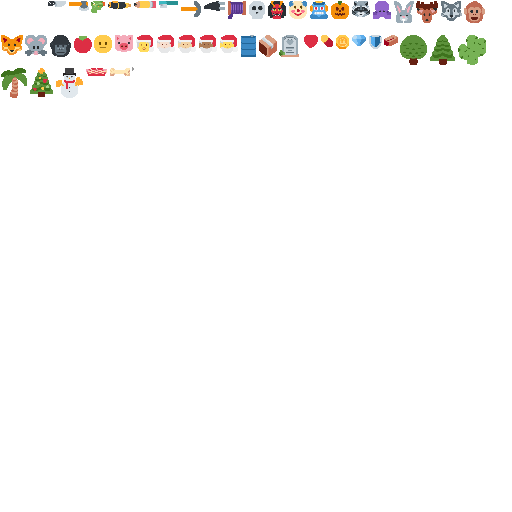
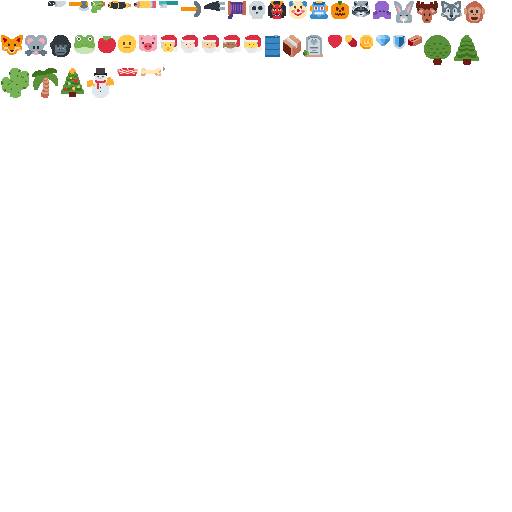
create and join game rooms #38, add FROGMAN head

Changed region(s): [[0.0, 0.0625, 0.9688, 0.1875]]

diff --git a/packages/sprite/public/legacy.html b/packages/sprite/public/legacy.html
@@ -1,0 +1,280 @@
+<!DOCTYPE html>
+<html lang="en">
+<head>
+  <meta charset="UTF-8">
+  <meta name="viewport" content="width=device-width,initial-scale=1.0">
+  <title>pencil</title>
+  <link rel="icon" href="https://fav.farm/💀"/>
+</head>
+<body style="margin:0;height:100vh;overflow:hidden;background:#AAA">
+<script>
+  let output = "";
+
+  function start() {
+    const config = {
+      // WEAPONS
+      "🔪": {size: 12, a: -50, x: 0.3},
+      "🪓": {size: 16, sx: -1, a: 45, x: 0.3},
+      "🔫": {size: 12, sx: -1, x: 0.3},
+      "🖊": {size: 16, sx: -1, a: 45 - 90},
+      "✏": {size: 16, sx: -1, a: 44.5},
+      "🪥": {size: 16, sy: -1, a: 45},
+      "⛏": {size: 16, a: 90 + 45},
+      "🔌": {size: 16, sx: -1, a: 45},
+      "🧵": {size: 16, a: 90, x: 0.3, y: 0.4},
+      // avatars
+      "💀": {},
+      "👹": {},
+      "🤡": {},
+      "🤖": {},
+      "🎃": {},
+      "🦝": {},
+      "🐙": {},
+      "🐰": {size: 20, y: 0.65},
+      "🦌": {size: 20, y: 0.67},
+      "🐺": {size: 20},
+      "🐵": {size: 20},
+      "🦊": {size: 20},
+      "🐭": {size: 20},
+      "🦍": {size: 20},
+      "🐸": {size: 19},
+      // NPC
+      "🍅": {},
+      "😐": {},
+      "🐷": {},
+      "🧑🎄": {},
+      "🎅🏻": {},
+      "🎅🏼": {},
+      "🎅🏾": {},
+      "🎅": {},
+
+      // barrels
+      "🛢":{size: 20, y: 0.95},
+      "📦":{size: 20, y: 0.85},
+      "🪦":{size: 20, y: 0.95},
+      // items
+      "❤":{size: 12},
+      "💊":{size: 10},
+      "🪙":{size: 12},
+      "💎":{size: 12},
+      "🛡":{size: 12},
+      "🧱":{size: 12},
+      // trees
+      "🌳":{size: 28, cut: 0x88, y: 0.95},
+      "🌲":{size: 28, cut: 0x88, y: 0.95},
+      "🌵":{size: 28, cut: 0x88, y: 0.95},
+      "🌴":{size: 28, cut: 0x88, y: 0.95},
+      "🎄":{size: 28, cut: 0x88, y: 0.95},
+      "⛄":{size: 28, cut: 0x88, y: 0.95},
+      // particles
+      "🥓":{size: 16, a: -45},
+      "🦴":{size: 16, a: -45},
+    };
+    for (const img in config) {
+      preview2(img, config[img]);
+    }
+    console.info(output);
+  }
+
+  const font = new FontFace("e", `url(e.ttf)`);
+  font.load().then(() => {
+    document.fonts.add(font);
+    start();
+  });
+
+  function preview(emoji, opts) {
+    let x = 0;
+    let y = 0;
+    const emojiSize = opts.size ?? 16;
+    const w_ = emojiSize + 4; // 14->16
+    const h_ = emojiSize + 6; // 14 -> 20
+    const canvas = document.createElement("canvas");
+    canvas.style.border = "solid 1px blue";
+    canvas.width = w_;
+    canvas.height = h_;
+    const ctx = canvas.getContext("2d");//, {alpha: true});
+    ctx.font = emojiSize + "px e";
+    ctx.textAlign = "center";
+    ctx.textBaseline = "middle";
+    const comp = 1 + (emojiSize / 5);
+    const ty = y + (h_ / 2 + comp) | 0;
+
+    ctx.translate(x + (w_ >>> 1), ty);
+    ctx.rotate((opts.a ?? 0) * Math.PI / 180);
+    ctx.scale(opts.sx ?? 1, opts.sy ?? 1);
+    ctx.fillStyle = "white";
+    ctx.fillText(emoji, 0, 0);
+
+    ctx.resetTransform();
+    ctx.fillStyle = "rgba(255,0,0,0.5)";
+    ctx.fillRect(x + w_ * (opts.x ?? 0.5), y + h_ * (opts.y ?? 0.5), 1, 1);
+
+    const bmp = ctx.getImageData(x, y, w_, h_);
+    for (let i = 0; i < bmp.data.length; i += 4) {
+      let a = bmp.data[i + 3];
+      if (a > 0x7F) {
+        bmp.data[i + 3] = 0xFF;
+      } else {
+        bmp.data[i + 3] = 0;
+      }
+    }
+    ctx.putImageData(bmp, x, y);
+
+    {
+      const lc = document.createElement("canvas");
+      lc.style.border = "solid 1px blue";
+      lc.width = w_ * 4;
+      lc.height = h_ * 4;
+      const ctx2 = lc.getContext("2d");
+      ctx2.imageSmoothingEnabled = false;
+      ctx2.scale(4, 4);
+      ctx2.drawImage(canvas, 0, 0);
+      document.body.appendChild(lc);
+    }
+  }
+
+  // let anchorX = 0.5;
+  // let anchorY = 0.5;
+  function preview2(emoji, opts) {
+    preview(emoji, opts);
+    let x = 0;
+    let y = 0;
+    const scaleUp = 8;
+    const emojiSize = ((opts.size ?? 16) * scaleUp) | 0;
+    const maxSize = 512;
+    const w_ = maxSize; // 14->16
+    const h_ = maxSize; // 14 -> 20
+    const canvas = document.createElement("canvas");
+    canvas.width = w_;
+    canvas.height = h_;
+    const ctx = canvas.getContext("2d", {alpha: true});
+    // ctx.imageSmoothingEnabled = false;
+    ctx.font = emojiSize + "px e";
+    ctx.textAlign = "center";
+    ctx.textBaseline = "middle";
+    ctx.translate(w_ / 2, h_ / 2);
+    ctx.rotate(Math.PI * (opts.a ?? 0) / 180);
+    ctx.scale(opts.sx ?? 1, opts.sy ?? 1);
+    ctx.fillText(emoji, 0, 0);
+
+    const bmp = ctx.getImageData(x, y, w_, h_);
+    const bounds = scanBounds(bmp);
+    ctx.putImageData(bmp, x, y);
+    // document.body.appendChild(canvas);
+    {
+      const lc = document.createElement("canvas");
+      const scale = 1 / scaleUp;
+      const cut2 = opts.cut ?? 0x80;
+      lc.width = 1 + (bounds.w * scale + 2) | 0;
+      lc.height = 1 + (bounds.h * scale + 2) | 0;
+      const ctx2 = lc.getContext("2d");
+      ctx2.imageSmoothingEnabled = false;
+      ctx2.scale(scale, scale);
+      ctx2.translate(-bounds.x, -bounds.y);
+      ctx2.drawImage(canvas, 1 / scale, 1 / scale);
+      ctx2.resetTransform();
+      const bmp = ctx2.getImageData(x, y, w_, h_);
+      for (let i = 0; i < bmp.data.length; i += 4) {
+        let a = bmp.data[i + 3];
+        if (a >= cut2) {
+          bmp.data[i + 3] = 0xFF;
+        } else {
+          bmp.data[i + 3] = 0;
+        }
+      }
+      ctx2.putImageData(bmp, x, y);
+      ctx2.fillStyle = "rgba(255,0,0,0.5)";
+      ctx2.fillRect((lc.width * (opts.x ?? 0.5)) | 0, (lc.height * (opts.y ?? 0.5)) | 0, 1, 1);
+      // document.body.appendChild(lc);
+      {
+        const previewCanvas = document.createElement("canvas");
+        previewCanvas.style.border = "solid 1px blue";
+        previewCanvas.width = lc.width * 4;
+        previewCanvas.height = lc.height * 4;
+        const previewCtx = previewCanvas.getContext("2d");
+        previewCtx.imageSmoothingEnabled = false;
+        previewCtx.scale(4, 4);
+        previewCtx.drawImage(lc, 0, 0);
+        document.body.appendChild(previewCanvas);
+      }
+
+      const rsize = (opts.size ?? 16) - 16;
+      // output += `/* ${emoji} */ [[${[...emoji].map(x=>x.codePointAt(0)).join(",")}], ${bounds.x}, ${bounds.y}, ${lc.width}, ${lc.height}, ${rsize || ""}, ${opts.a ?? ""}, ${opts.sx ?? ""}, ${opts.sy ?? ""}, ${opts.cut ?? ""}, ${opts.x ?? ""}, ${opts.y ?? ""}],\n`;
+      output += `/* ${emoji} */ ["${emoji}", ${bounds.x}, ${bounds.y}, ${lc.width}, ${lc.height}, ${rsize || ""}, ${opts.a ?? ""}, ${opts.sx ?? ""}, ${opts.sy ?? ""}, ${opts.cut ?? ""}, ${opts.x ?? ""}, ${opts.y ?? ""}],\n`;
+      return [emoji, bounds.x, bounds.y, lc.width, lc.height, opts.size, opts.a, opts.sx, opts.sy, opts.cut, opts.x ?? 0.5, opts.y ?? 0.5];
+    }
+  }
+
+  // emojiSize = 20;
+  // `🛢,📦`.split(",").map(createEmoji);
+
+
+  // SCAN BOUNDS
+
+  // finds the first y coord in imgData that is not white
+  function scanY(fromTop, imgWidth, imgHeight, imgData) {
+    const offset = fromTop ? 1 : -1
+    const firstCol = fromTop ? 0 : imgHeight - 1
+
+    // loop through each row
+    for (let y = firstCol; fromTop ? (y < imgHeight) : (y > -1); y += offset) {
+      // loop through each column
+      for (let x = 0; x < imgWidth; x++) {
+        // if not white, return col
+        if (getAlpha(x, y, imgWidth, imgData)) {
+          return y;
+        }
+      }
+    }
+
+    // the whole image is white already
+    return 0;
+  }
+
+  // finds the first x coord in imgData that is not white
+  function scanX(fromLeft, imgWidth, imgHeight, imgData) {
+    const offset = fromLeft ? 1 : -1
+    const firstRow = fromLeft ? 0 : imgWidth - 1
+
+    // loop through each column
+    for (let x = firstRow; fromLeft ? (x < imgWidth) : (x > -1); x += offset) {
+      // loop through each row
+      for (let y = 0; y < imgHeight; y++) {
+        // if not white, return row
+        if (getAlpha(x, y, imgWidth, imgData)) {
+          return x;
+        }
+      }
+    }
+
+    // the whole image is white already
+    return 0;
+  }
+
+  function getAlpha(x, y, imgWidth, imgData) {
+    return imgData.data[(y * imgWidth + x) * 4 + 3];
+  }
+
+  // https://github.com/agilgur5/trim-canvas
+  function scanBounds(bmp) {
+    // get the corners of the relevant content (everything that's not white)
+    const cropTop = scanY(true, bmp.width, bmp.height, bmp);
+    const cropBottom = scanY(false, bmp.width, bmp.height, bmp);
+    const cropLeft = scanX(true, bmp.width, bmp.height, bmp);
+    const cropRight = scanX(false, bmp.width, bmp.height, bmp);
+    return {
+      x: cropLeft,
+      y: cropTop,
+      w: cropRight - cropLeft + 1,
+      h: cropBottom - cropTop + 1
+    };
+  }
+
+  setInterval(() => {
+    const c = (Math.random() * 0x80) | 0;
+    document.body.style.background = `rgba(${c},${c},${c},1)`;
+  }, 500);
+
+</script>
+</body>
+</html>

diff --git a/packages/sprite/src/spr.ts b/packages/sprite/src/spr.ts
@@ -87,8 +87,8 @@ export function preview2(emoji:string, opts:{size?:number, sx?:number, sy? : num
     // document.body.appendChild(canvas);
     {
         const lc = document.createElement("canvas");
-        // const scale = 1 / scaleUp;
-        const scale = 1;
+        const scale = 1 / scaleUp;
+        // const scale = 1;
         const cut2 = opts.cut ?? 0x80;
         lc.width = 1 + (bounds.w * scale + 2) | 0;
         lc.height = 1 + (bounds.h * scale + 2) | 0;
@@ -124,8 +124,8 @@ export function preview2(emoji:string, opts:{size?:number, sx?:number, sy? : num
         // }
 
         const rsize = (opts.size ?? 16) - 16;
-        //output += `/* ${emoji} */ ["${emoji}", ${bounds.x}, ${bounds.y}, ${lc.width}, ${lc.height}, ${rsize || ""}, ${opts.a ?? ""}, ${opts.sx ?? ""}, ${opts.sy ?? ""}, ${opts.cut ?? ""}, ${opts.x ?? ""}, ${opts.y ?? ""}],\n`;
-        return [emoji, bounds.x, bounds.y, lc.width, lc.height, opts.size, opts.a, opts.sx, opts.sy, opts.cut, opts.x ?? 0.5, opts.y ?? 0.5];
+        return `/* ${emoji} */ ["${emoji}", ${bounds.x}, ${bounds.y}, ${lc.width}, ${lc.height}, ${rsize || ""}, ${opts.a ?? ""}, ${opts.sx ?? ""}, ${opts.sy ?? ""}, ${opts.cut ?? ""}, ${opts.x ?? ""}, ${opts.y ?? ""}],\n`;
+        //return [emoji, bounds.x, bounds.y, lc.width, lc.height, opts.size, opts.a, opts.sx, opts.sy, opts.cut, opts.x ?? 0.5, opts.y ?? 0.5];
         // return lc;
     }
 }

diff --git a/packages/sprite/src/generate.ts b/packages/sprite/src/generate.ts
@@ -45,6 +45,7 @@ export const enum Img {
     avatar11,
     avatar12,
     avatar13,
+    avatar14,
 
     npc0,
     npc1,
@@ -79,7 +80,7 @@ export const enum Img {
 
     logo_title,
 
-    num_avatars = 14,
+    num_avatars = 15,
     num_npc = 8,
 }
 
@@ -295,7 +296,7 @@ export const buildAtlas = (): AtlasPage => {
         /* 🦊 */ ["🦊", 177, 153, 22, 20, 4, , , , , ,],
         /* 🐭 */ ["🐭", 176, 148, 23, 22, 4, , , , , ,],
         /* 🦍 */ ["🦍", 179, 145, 22, 22, 4, , , , , ,],
-
+        /* 🐸 */ ["🐸", 180, 158, 22, 20, 3, , , , , , ],
         /* 🍅 */ ["🍅", 195, 166, 18, 19, , , , , , ,],
         /* 😐 */ ["😐", 192, 166, 19, 19, , , , , , ,],
         /* 🐷 */ ["🐷", 192, 170, 19, 17, , , , , , ,],
@@ -373,7 +374,7 @@ export const buildAtlas = (): AtlasPage => {
         bufferSubImages[ptr++] = subImage.vertex0;
         bufferSubImages[ptr++] = subImage.vertexCount;
     }
-    
+
     bufferV.set(allVertices);
     bufferI.set(allIndices);
 

diff --git a/packages/client/src/game/game.ts b/packages/client/src/game/game.ts
@@ -1769,7 +1769,7 @@ function drawPlayerOpaque(p: Actor): void {
     }
 
     {
-        const imgHead = p.client_ ? (Img.avatar0 + p.anim0_ % Img.num_avatars) : (Img.npc0 + p.anim0_ % Img.num_npc);
+        const imgHead = p.client_ ? (Img.avatar0 + /*p.anim0_ % Img.num_avatars*/14) : (Img.npc0 + p.anim0_ % Img.num_npc);
         const s = p.w_ / 500;
         const a = p.u_ / 500;
         drawMeshSpriteUp(img[imgHead], x, y + 0.1, z + 16 - base * 2, a, 1 - s, 1 + s, 1, 0xFFFFFF, 0, co);

diff --git a/packages/sprite/src/index.ts b/packages/sprite/src/index.ts
@@ -1,5 +1,6 @@
 import {buildAtlas} from "./generate";
 import {AtlasPage} from "./atlas";
+import {preview2} from "./spr";
 
 const w = document.body.clientWidth;
 const h = document.body.clientHeight;
@@ -99,5 +100,7 @@ async function start() {
 
     // makeSpotLightTexture();
 }
+
+console.info(preview2("🐸", {size: 19}));
 
 start().then();

diff --git a/packages/client/src/assets/gfx.ts b/packages/client/src/assets/gfx.ts
@@ -38,6 +38,7 @@ export const enum Img {
     avatar11,
     avatar12,
     avatar13,
+    avatar14,
 
     npc0,
     npc1,
@@ -72,7 +73,7 @@ export const enum Img {
 
     logo_title,
 
-    num_avatars = 14,
+    num_avatars = 15,
     num_npc = 8,
 }
 

diff --git a/CHANGELOG.md b/CHANGELOG.md
@@ -1,6 +1,7 @@
 ## 1.0.11
 
 - Create and join game rooms #38
+- New FROGMAN head
 - Brand icons
 
 ## 1.0.10
